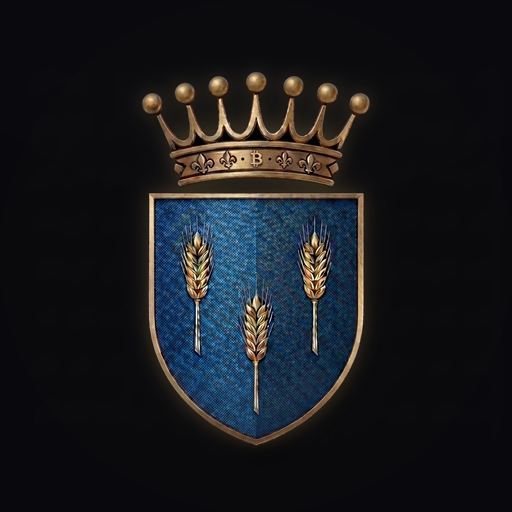
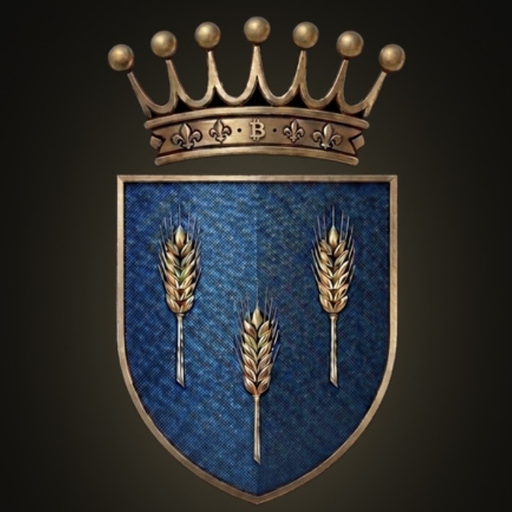
Add files via upload

diff --git a/index.html b/index.html
@@ -63,7 +63,7 @@
     <div class="bar"><i id="bar-fill"></i></div>
     <div class="pct" id="bar-pct">0&nbsp;%</div>
     <div class="tagline">Private Wealth</div>
-    <div class="loader-ver" id="loader-ver" style="margin-top:14px;font-size:9px;letter-spacing:3px;color:#6B6456;opacity:0;animation:fadeUp 1.4s 1s ease-out forwards;">v7.82</div>
+    <div class="loader-ver" id="loader-ver" style="margin-top:14px;font-size:9px;letter-spacing:3px;color:#6B6456;opacity:0;animation:fadeUp 1.4s 1s ease-out forwards;">v7.83</div>
   </div>
   <div id="root"></div>
 
@@ -125,7 +125,7 @@
   <script src="seeds.js?v=2.07"></script>
   <script>window.__cgiProg(62)</script>
   <!-- app.jsx : compile par Babel de maniere asynchrone apres ce point -->
-  <script type="text/babel" data-presets="react" src="app.jsx?v=7.82"></script>
+  <script type="text/babel" data-presets="react" src="app.jsx?v=7.83"></script>
   <script>window.__cgiProg(72); window.__cgiCreep();</script>
   <!-- #88 — Service worker : garantit le chargement de la dernière version (network-first).
        Recharge automatiquement quand une nouvelle version est activée. -->
@@ -142,7 +142,7 @@
       if(refreshing) return; refreshing=true; location.reload();
     });
     window.addEventListener("load", function(){
-      navigator.serviceWorker.register("sw.js?v=7.82").then(function(reg){
+      navigator.serviceWorker.register("sw.js?v=7.83").then(function(reg){
         try{ reg.update(); }catch(e){}   // vérifier une mise à jour à l'ouverture (une seule fois)
         // #140 — plus d'auto-promote (postMessage SKIP_WAITING) : le SW en attente n'est PAS forcé à
         // s'activer en pleine session → aucun reload intempestif. Il prendra la main à la prochaine ouverture.